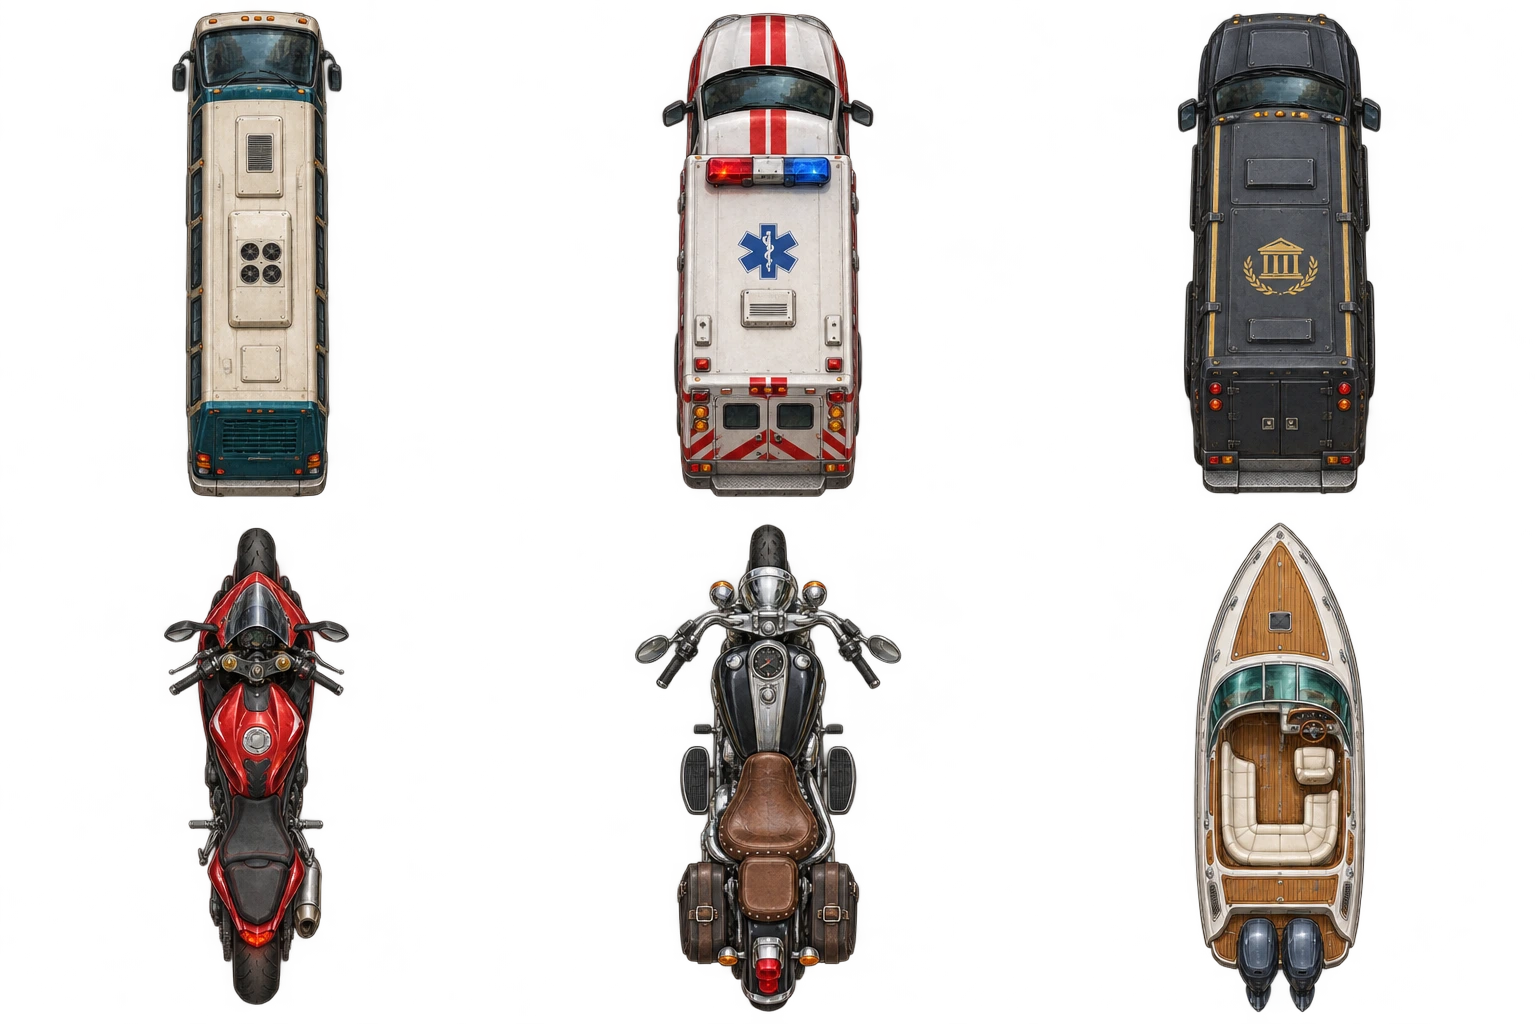
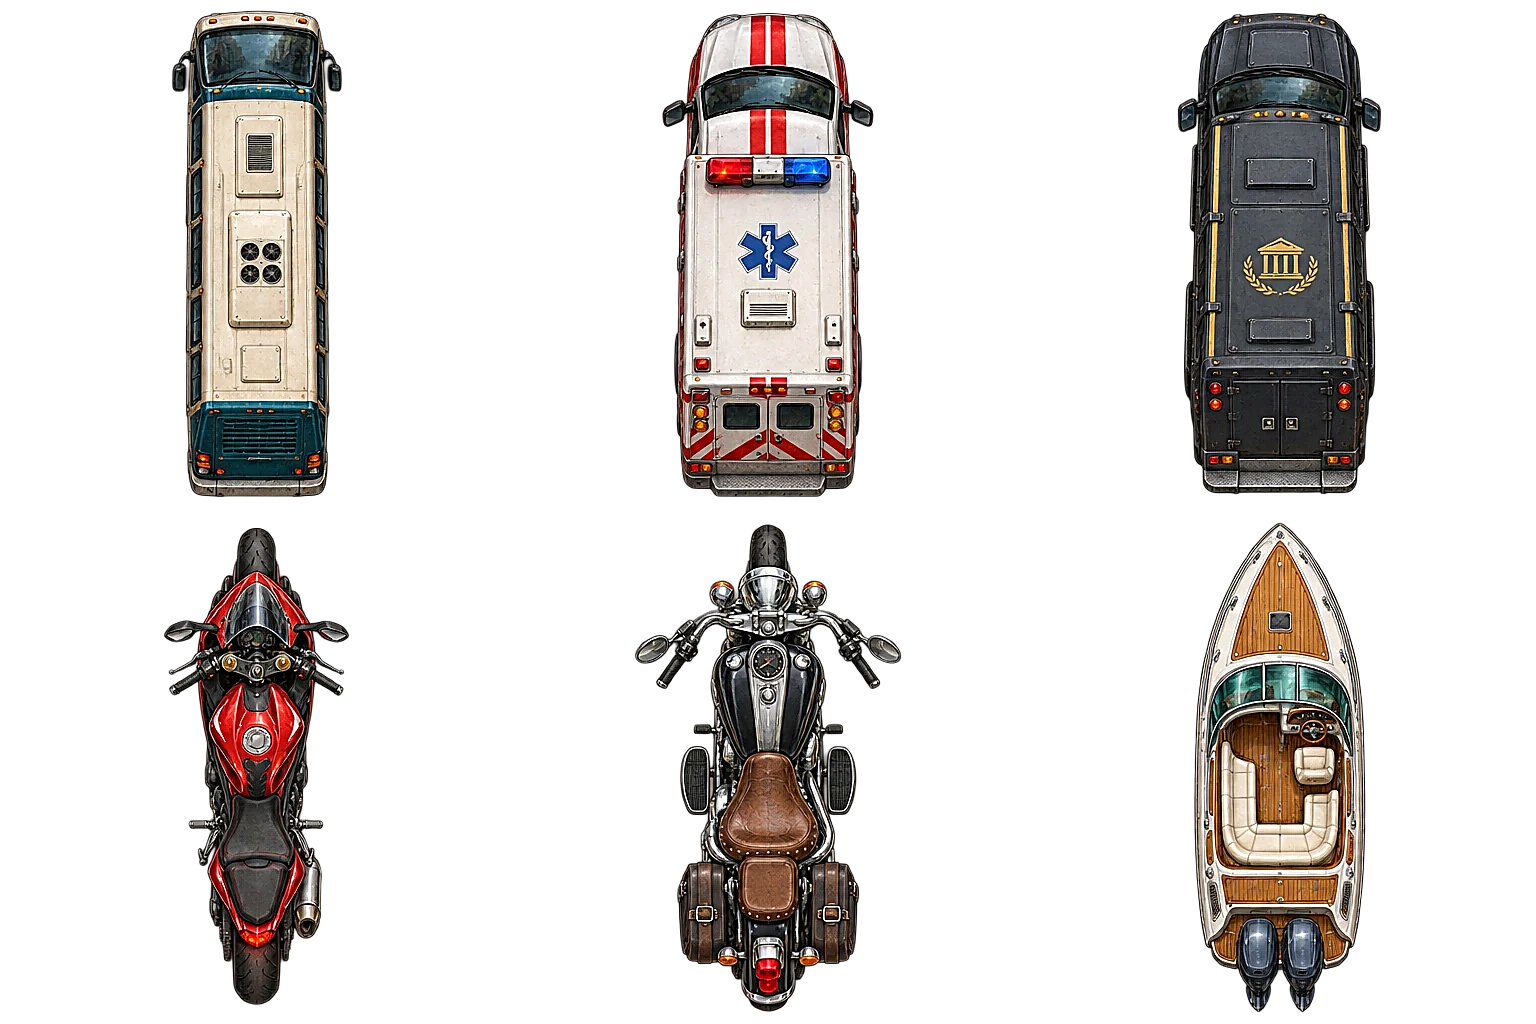
Pass 3b: crisper vehicle atlases (unsharp, contrast, painted rim); circuit artwork rebaked without brand text

diff --git a/tools/crisp-vehicles.py b/tools/crisp-vehicles.py
@@ -1,0 +1,20 @@
+"""Crispen the painted vehicle atlases: unsharp detail, a touch of local contrast,
+and a soft top-left specular sheen on body pixels. Alpha edges are kept tight."""
+import sys
+from PIL import Image, ImageFilter, ImageEnhance, ImageChops
+import numpy as np
+def crisp(src,dst,scale=1.0):
+ im=Image.open(src).convert('RGBA');a=im.getchannel('A')
+ rgb=im.convert('RGB').filter(ImageFilter.UnsharpMask(radius=1.6*scale,percent=120,threshold=2))
+ rgb=ImageEnhance.Contrast(rgb).enhance(1.08);rgb=ImageEnhance.Color(rgb).enhance(1.08)
+ arr=np.asarray(rgb).astype(np.float32)
+ # Clean alpha: harden the soft halo so edges read crisp at game zoom.
+ al=np.asarray(a).astype(np.float32)/255;al=np.clip((al-.12)/.76,0,1)
+ # darken a 1px rim just inside the silhouette (painted outline)
+ inner=np.asarray(Image.fromarray((al*255).astype(np.uint8)).filter(ImageFilter.MinFilter(3))).astype(np.float32)/255
+ rim=np.clip(al-inner,0,1)[...,None];arr=arr*(1-.35*rim)
+ out=np.dstack([np.clip(arr,0,255),al*255]).astype(np.uint8)
+ Image.fromarray(out,'RGBA').save(dst,quality=90,method=6)
+for n in ['vehicles','city-fleet']:
+ crisp(f'/workspace/cc_work/vorig/{n}.webp',f'assets/premium/{n}.webp')
+ crisp(f'/workspace/cc_work/vorig/{n}-mobile.webp',f'assets/premium/{n}-mobile.webp',.5)
